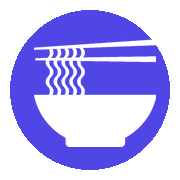
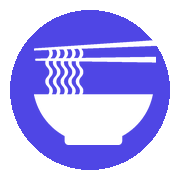
Subtle 3% chopstick trim on right

diff --git a/gen_icon.py b/gen_icon.py
@@ -36,8 +36,8 @@ def make_icon(source_path, size):
     if bbox:
         white_layer = white_layer.crop(bbox)
 
-    # Trim right side to shorten chopsticks
-    trim_right = int(white_layer.width * 0.06)
+    # Trim a small bit off the right to shorten chopstick tips
+    trim_right = int(white_layer.width * 0.03)
     white_layer = white_layer.crop((0, 0, white_layer.width - trim_right, white_layer.height))
 
     # Scale to fit inside circle with padding
